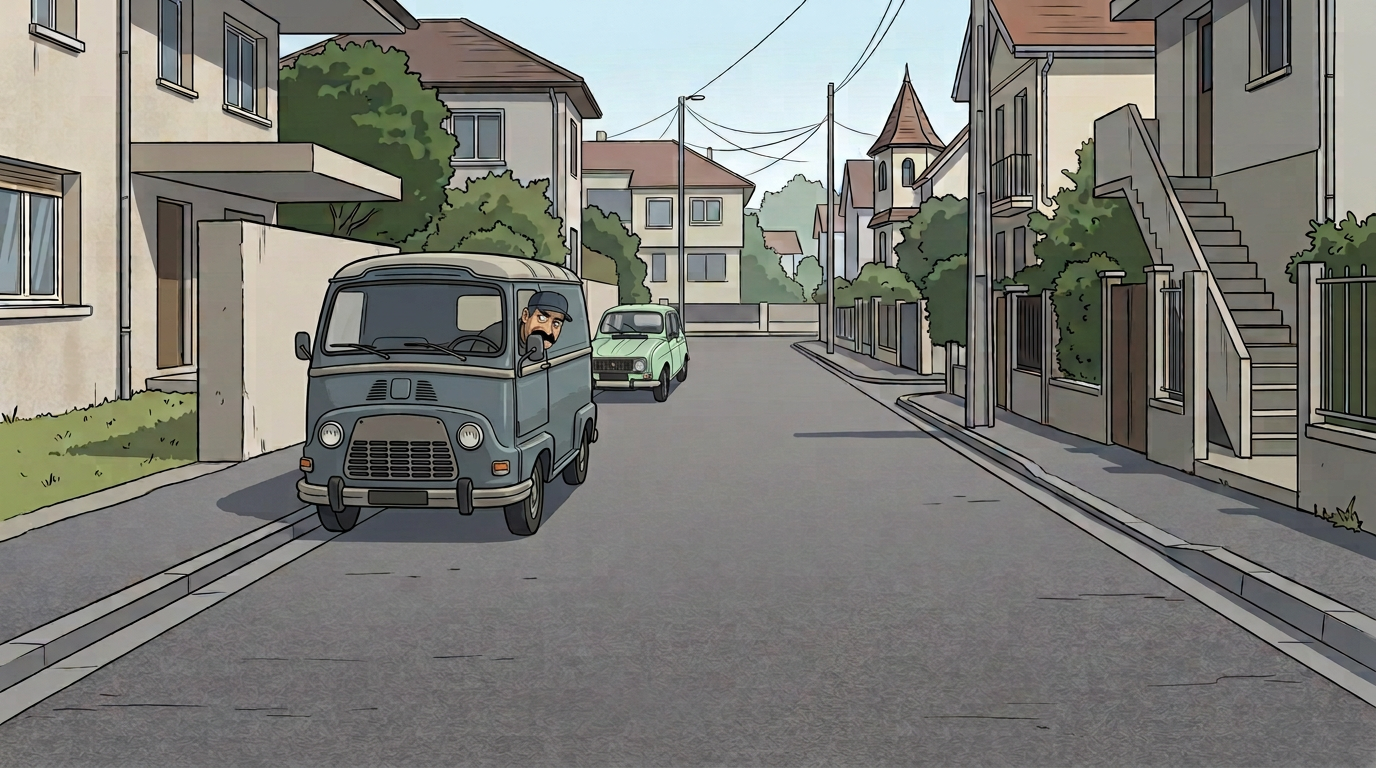
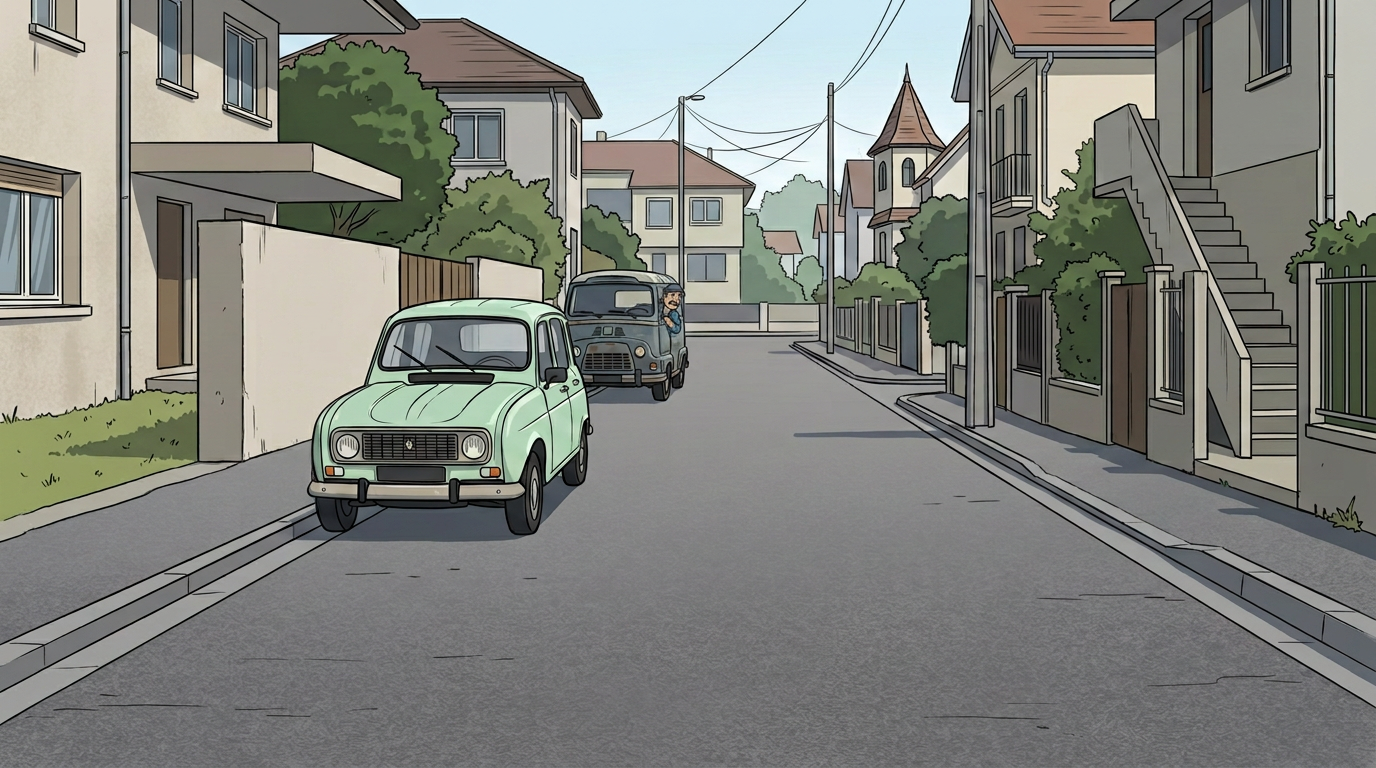
Correct P12 van and 4L depth order

diff --git a/docs/storyboard-images.md b/docs/storyboard-images.md
@@ -22,7 +22,7 @@
 | P09 | [`assets/storyboards/p09-jeannot-victory-pose.png`](../assets/storyboards/p09-jeannot-victory-pose.png) | ✅ Poussée — pose héroïque, 4L intacte |
 | P10 | [`assets/storyboards/p10-jeannot-stays.png`](../assets/storyboards/p10-jeannot-stays.png) | ✅ Poussée — gros plan, Jeannot reste dans la rue |
 | P11 | [`assets/storyboards/p11-4l-in-street.png`](../assets/storyboards/p11-4l-in-street.png) | 🔁 Corrigée — emplacement et orientation verrouillés comme P01 |
-| P12 | [`assets/storyboards/p12-diego-watches.png`](../assets/storyboards/p12-diego-watches.png) | 🔁 Corrigée — Diego tête/épaule à la fenêtre ; visage de référence, aucune figure parasite |
+| P12 | [`assets/storyboards/p12-diego-watches.png`](../assets/storyboards/p12-diego-watches.png) | 🔁 Corrigée — 4L devant, Estafette derrière même côté ; Diego ne montre que tête/épaule |
 | P13 | [`assets/storyboards/p13-witch-watches.png`](../assets/storyboards/p13-witch-watches.png) | ✅ Poussée — la sœur observe Diego depuis la tourelle |
 | P14 | [`assets/storyboards/p14-diego-rattles-4l.png`](../assets/storyboards/p14-diego-rattles-4l.png) | ✅ Poussée — secousse comique, 4L intacte |
 | P15 | [`assets/storyboards/p15-final-fight-standoff.png`](../assets/storyboards/p15-final-fight-standoff.png) | ✅ Poussée — duel installé dans la rue |
